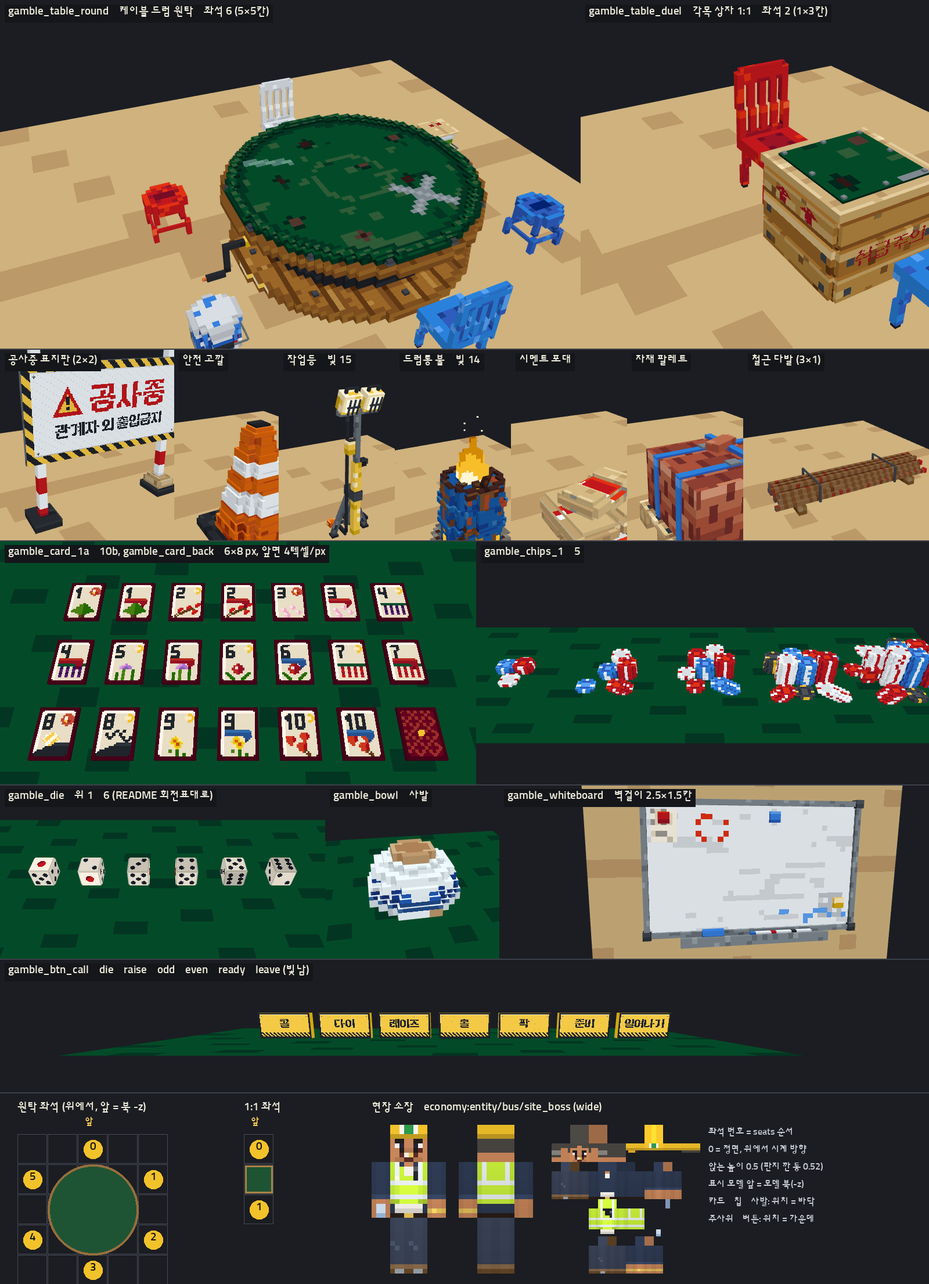
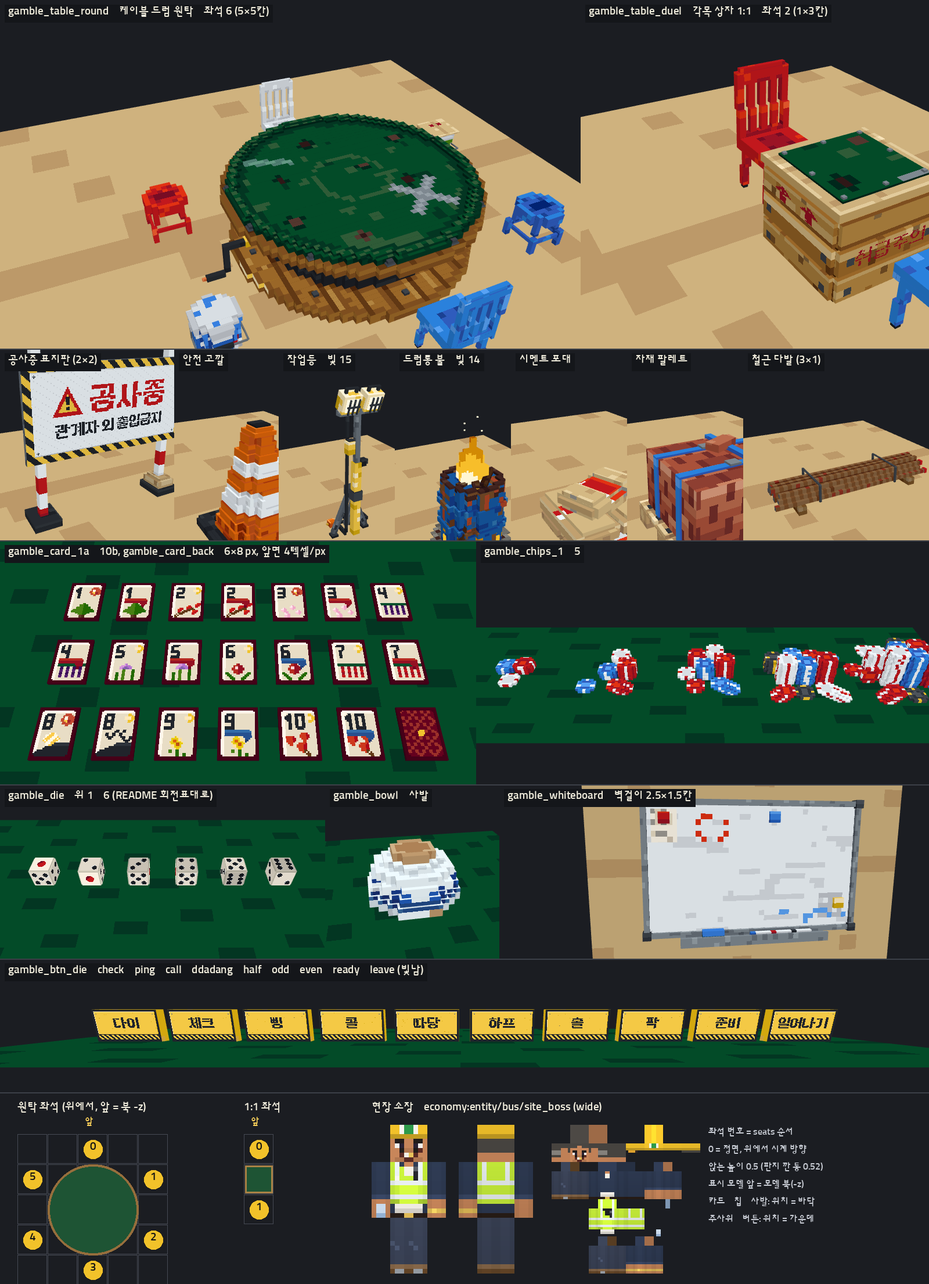
작업 중간 저장 (아직 jar 아님)
Claude-Session: https://claude.ai/code/session_01RZiBpXr9dauHCJtPMWBQ4s

Changed region(s): [[0.0, 0.7493, 1.0, 0.843]]

diff --git a/economy/src/test/java/dev/stsv/economy/ContentTest.java b/economy/src/test/java/dev/stsv/economy/ContentTest.java
@@ -275,8 +275,8 @@ class ContentTest {
         // 연마 진주 and its 북어포 among them), 21 old 손질대 goods (예전 물건: the shop buys them, nothing makes them), 6 job machines + the press, the
         // 통발 and the 가두리, 3 crates of catch (원양 조업: fish.yml net), 32 crop items (15 seeds, 17 harvests), 98 fish
         assertEquals(6, jobs.jobs().size());
-        assertEquals(6 + 8 + 149 + 12 + 7 + 21 + 7 + 2 + 3 + 32 + 98 + 4 + 1 + 12 + 1 + 18 + 21 + 45 + 23, ours.size(),
-                "6 finds + 8 specials + 149 goods + 12 4세대 goods + 7 4세대 materials + 21 old goods + 7 machines + 2 fishing gear + 3 crates of catch + 32 crop items + 98 fish (6 떼물고기) + 4 장신구 (the one base item, box, fragment, 용궁 상자) + 1 골드 스킨북 상자 + 12 버스 분실물 (10 kinds, a spoiled lunchbox, a keepsake ball) + 1 버스 선물 (배) + 18 숨은 비밀 물건 (13 + 족보, 빛바랜 사진, 페인트 조각, 삐삐, 삐삐의 편지) + 21 화투방 (섯다 패 20장 + 뒷면) + 45 도박장 (items/gamble.yml: 탁자 2, 소품 7, 패 21, 칩 5, 주사위, 사발, 버튼 7, 화이트보드) + 23 버스 손님이 든 물건 (items/bus.yml bus_hold_*: 닭과 날개 편 닭, 21가지)");
+        assertEquals(6 + 8 + 149 + 12 + 7 + 21 + 7 + 2 + 3 + 32 + 98 + 4 + 1 + 12 + 1 + 18 + 21 + 48 + 23, ours.size(),
+                "6 finds + 8 specials + 149 goods + 12 4세대 goods + 7 4세대 materials + 21 old goods + 7 machines + 2 fishing gear + 3 crates of catch + 32 crop items + 98 fish (6 떼물고기) + 4 장신구 (the one base item, box, fragment, 용궁 상자) + 1 골드 스킨북 상자 + 12 버스 분실물 (10 kinds, a spoiled lunchbox, a keepsake ball) + 1 버스 선물 (배) + 18 숨은 비밀 물건 (13 + 족보, 빛바랜 사진, 페인트 조각, 삐삐, 삐삐의 편지) + 21 화투방 (섯다 패 20장 + 뒷면) + 48 도박장 (items/gamble.yml: 탁자 2, 소품 7, 패 21, 칩 5, 주사위, 사발, 버튼 10, 화이트보드) + 23 버스 손님이 든 물건 (items/bus.yml bus_hold_*: 닭과 날개 편 닭, 21가지)");
         assertEquals(7, machines.size());
         assertEquals(149 + 12 + 7, machines.values().stream().flatMap(x -> x.recipes().stream()).map(MachineSpec.Recipe::output).distinct().count());
         YamlConfiguration legacy = yaml("shop.yml");

diff --git a/economy/src/test/java/dev/stsv/economy/PackTest.java b/economy/src/test/java/dev/stsv/economy/PackTest.java
@@ -37,10 +37,10 @@ class PackTest {
         try (var s = Files.list(PACK.resolve("models"))) {
             models = s.filter(p -> p.toString().endsWith(".bbmodel")).sorted().toList();
         }
-        assertEquals(7 * 5 + 3 * 5 + 77 + 9 + 1 + 1 + 5 + 2 + 2 + 13 + 45 + 23, models.size(),
+        assertEquals(7 * 5 + 3 * 5 + 77 + 9 + 1 + 1 + 5 + 2 + 2 + 13 + 48 + 23, models.size(),
                 "7 machines in 5 tiers (4세대: 4강), 3 spinning parts in 5 tiers, 77 growth stages of 17 crops, 9 하역장 props (6 container colours), the 국도 sign, "
                         + "its guide sign and its 5 arrows, the 통발 and the 가두리, the 숨은 비밀 기념비 stone unsolved and solved, and solved with each secret's own emblem (13), "
-                        + "and the 도박장's 45 (2 tables, 7 props, 21 cards, 5 chip piles, the die, the bowl, 7 buttons, the whiteboard), and the 23 things bus passengers hold (models/bus_hold.py: the hen and her flapping self, 21 more)");
+                        + "and the 도박장's 48 (2 tables, 7 props, 21 cards, 5 chip piles, the die, the bowl, 10 buttons, the whiteboard), and the 23 things bus passengers hold (models/bus_hold.py: the hen and her flapping self, 21 more)");
         for (Path p : models) {
             String name = p.getFileName().toString().replace(".bbmodel", "");
             BBModelConverter.Result r = BBModelConverter.convert(p, "economy:item/" + name);

diff --git a/economy/src/test/java/dev/stsv/economy/GambleAssetsTest.java b/economy/src/test/java/dev/stsv/economy/GambleAssetsTest.java
@@ -34,7 +34,7 @@ class GambleAssetsTest {
                 "gamble_bowl", "gamble_whiteboard"));
         for (int m = 1; m <= 10; m++) for (String s : List.of("a", "b")) ids.add("gamble_card_" + m + s);
         for (int n = 1; n <= 5; n++) ids.add("gamble_chips_" + n);
-        for (String b : List.of("call", "die", "raise", "odd", "even", "ready", "leave")) ids.add("gamble_btn_" + b);
+        for (String b : List.of("die", "check", "ping", "call", "ddadang", "half", "odd", "even", "ready", "leave")) ids.add("gamble_btn_" + b);
         for (String p : List.of("cement", "rebar", "cone", "worklight", "drumfire", "sign", "pallet")) ids.add("gamble_prop_" + p);
         return ids;
     }
@@ -47,7 +47,7 @@ class GambleAssetsTest {
     void everyContractIdIsAnItemWithItsModel() {
         YamlConfiguration y = items();
         List<String> ids = contractIds();
-        assertEquals(45, ids.size());
+        assertEquals(48, ids.size());
         assertEquals(ids.size(), y.getKeys(false).size(), "items/gamble.yml holds the contract's ids and nothing else");
         for (String id : ids) {
             ConfigurationSection sec = y.getConfigurationSection(id);

diff --git a/economy/README.md b/economy/README.md
@@ -883,10 +883,10 @@ STSV 공통 플러그인 위에서 도는 첫 번째 콘텐츠: 시즌 없이 **
 1. `/화투방` → 도박장 문 안쪽으로 순간이동 (도박장이 아직 없으면 안내만). 칩은 **현장 소장**(환전 창구 NPC) 우클릭 또는 `/화투방 칩`:
    내 칩 · 칩 10 / 100 / 1,000개 사기 · 10 / 100개 / 전부 바꾸기 · 규칙 · 족보 · 쉬어 가기 · **내 전적**(최근 8판) · 도박장으로.
 2. 테이블마다 위에 **팻말**: 종목 · 방 · 판돈 · 앉은 사람/자리 · 지금 상태 (빈 의자에 앉으면 시작 / n초 뒤 시작 / 진행 중 / 결과).
-3. **빈 의자 우클릭 = 그 테이블 판에 앉음** (가장 가까운 빈 의자). 칩이 모자라거나(판돈 · 섯다는 판돈 5배) 쉬어 가기 · 계정 나이에
+3. **빈 의자 우클릭 = 그 테이블 판에 앉음** (가장 가까운 빈 의자). 칩이 모자라거나(판돈 · 섯다는 판돈 3배) 쉬어 가기 · 계정 나이에
    걸리면 앉지 못하고 이유가 뜸. 다른 테이블에 앉아 있으면 못 앉음. **웅크리기(일어나기) = 판에서 나감**, 판 도중이면 다이.
-4. 두 사람 이상 앉으면 시작. 앉아 있는 동안 **화면 오른쪽 아래 판 보드**(코어 HUD): 누구 차례 · 남은 시간, 판, 내가 건 칩, 레이즈 n/2,
-   내 칩(판에 안 건 칩), 쉬는 중이면 그 안내. 앉은 사람에게만.
+4. 두 사람 이상 앉으면 시작. 앉아 있는 동안 **화면 오른쪽 아래 판 보드**(코어 HUD): 누구 차례 · 남은 시간, 판, 내가 건 칩,
+   섯다는 마지막 베팅("○○ 하프! +120칩", "올인!") · 콜 하려면 n칩 · 내가 올인이면 그 안내, 내 칩(판에 안 건 칩), 쉬는 중이면 그 안내. 앉은 사람에게만.
 5. **섯다**: 패 두 장이 가운데에서 자리 앞으로 미끄러져 와 눕혀짐. **내 패는 나에게만 앞면**, 다른 사람(구경꾼 · 나중에 들어온 사람 ·
    다시 접속한 사람 포함)에게는 뒷면. 다이하면 패가 엎인 채 가운데 쪽으로 밀림. 패를 열 때(모두 맞췄을 때) 다이 안 한 사람 패가 하나씩
    **뒤집힘**(들렸다가 옆으로 서고, 앞면으로 내려앉음). 모두 다이해서 끝난 판은 열지 않음. 구사 재경기는 새로 돌림.
@@ -896,10 +896,13 @@ STSV 공통 플러그인 위에서 도는 첫 번째 콘텐츠: 시즌 없이 **
 7. 칩: 판이 커질수록 가운데 **칩 더미**가 커짐 (판돈의 몇 배인지로 5단계 + 단계 안에서 조금씩), 위에 "판 n칩". 끝나면 더미가
    **이긴 사람 앞으로 미끄러지고** "+n칩" 이 떠오름. 판이 `hall.big-pot`(1,000칩) 이상이면 **큰 판**: 테이블 위 불꽃 · 효과음, 건물 안
    (`hall.radius` 40칸) 사람들에게 알림, **화이트보드 "오늘의 큰 판"**에 기록 (큰 순서로 5줄, 05시에 새로, 재시작해도 남음).
-8. **내 차례**: 자리 앞 테이블 위에 **버튼**이 서서 뜸 (나에게만 보이고 나만 누를 수 있음, 우클릭 · 좌클릭): 섯다 = 다이 · 콜(+n, 낼 것이
-   없으면 "그대로") · 레이즈(+n, 남았을 때만), 홀짝 = 홀 · 짝. 위에 이름과 금액. 차례인 자리 앞에는 **차례 시간**(이름 · n초 · 막대,
+8. **내 차례**: 자리 앞 테이블 위에 **버튼**이 한 줄로 서서 뜸 (나에게만 보이고 나만 누를 수 있음, 우클릭 · 좌클릭): 섯다 = 그때 할 수
+   있는 것만 — 아무도 안 걸었으면 **다이 · 체크 · 삥 · 하프**, 누가 걸었으면 **다이 · 콜 · 따당 · 하프** (칩이 모자라 더 못 올리면 다이 · 콜),
+   홀짝 = 홀 · 짝. 위에 이름, 아래에 넣을 칩(+n, 가진 칩을 다 넣게 되면 **올인 +n**). 둥근 테이블은 넷이 제 크기, 1:1 상자는 조금 작게
+   (한 자리 앞 최대 7개, `TableArt.pad`). 누가 걸면 채팅 · 팻말 · 판 보드에 "○○ 하프! +120칩" (올인이면 "올인!"), 그 자리 위로 글씨가
+   떠오르고 소리 (체크 똑똑 · 삥 · 콜 칩 소리 · 따당 종 두 번 · 하프 칩 + 딸랑 · 다이 털썩 · 올인은 크게 + 반짝). 차례인 자리 앞에는 **차례 시간**(이름 · n초 · 막대,
    5초부터 빨강)이 모두에게 보임. 차례가 오면 띵 소리 · 화면 알림. 판에 안 껴 있을 때(기다림 · 결과 · 다이 뒤)는 **일어나기** 버튼.
-9. **차례를 놓치면** (시간이 지나 판이 대신 둠: 섯다는 낼 것이 있으면 다이 아니면 콜, 홀짝은 아무거나) 다음 판부터 **쉬는 중**:
+9. **차례를 놓치면** (시간이 지나 판이 대신 둠: 섯다는 낼 것이 있으면 다이 아니면 체크, 홀짝은 아무거나) 다음 판부터 **쉬는 중**:
    의자에 그대로 앉아 있지만 판에 끼지 않음. 자리 앞 **준비** 버튼을 누르면 다음 판부터 다시 낌 (예전 "창을 닫으면 빠짐"의 대신).
 10. 담배연기 조금 (사람이 앉은 테이블 위).
 
@@ -910,12 +913,15 @@ STSV 공통 플러그인 위에서 도는 첫 번째 콘텐츠: 시즌 없이 **
   산 골드는 칩이 들고 있는 돈(주식처럼 ESCROW)이고, 바꿀 때 95 G 가 돌아오고 5 G 는 소각. 판에 건 칩은 판이 끝나야 바꿀 수 있음.
 - **방** (판돈 = 한 판에 처음 거는 칩): **초보방 10칩** (1,000 G) · **일반방 100칩** (10,000 G) · **큰손방 500칩** (50,000 G). 테이블마다 종목 · 방이
   정해져 있음 (건물 기본 배치: 섯다 초보방 · 섯다 일반방 · 섯다 큰손방 · 주사위 초보방 · 홀짝 초보방 · 홀짝 일반방).
-- **앉는 조건**: 칩이 **한 판이 가져갈 수 있는 만큼**만 있으면 됨 (홀짝 · 주사위 = 판돈, 섯다 = 판돈 + 레이즈 2번 × 판돈 × (첫 판 + 재경기 1번)
-  = **판돈의 5배**: 초보방 50 · 일반방 500 · 큰손방 2,500칩). 그래서 판 도중에 칩이 모자라는(음수가 되는) 일(올인 · 사이드 팟)은 없음.
-  판 시작 때 모자라면 일어서게 하고 이유를 알려 줌. **계정 나이 제한 없음** (`min-account-hours: 0`; 예: 24 = 처음 들어온 지 24시간 지난 계정부터).
+- **앉는 조건**: 홀짝 · 주사위 = **판돈** (한 판이 판돈보다 더 가져가지 않음), 섯다 = **판돈 × 3** (`games.sutda.sit-antes`: 초보방 30 ·
+  일반방 300 · 큰손방 1,500칩). 섯다는 올리는 횟수에 제한이 없지만 **가진 칩보다 더 걸 수는 없음**: 모자라면 가진 만큼만 넣고 **올인**,
+  그 사람은 자기가 맞춘 만큼의 판(메인 판 · 사이드 판)만 겨룸. 판이 시작될 때 가진 칩 전부가 그 판의 밑천(판 도중에는 환전 못 함)이라
+  **칩은 절대 음수가 안 됨** — 그래서 판돈 1배로도 안전하지만, 판돈 · 삥 · 따당 한 번은 받을 수 있게 3배로 둠 (판돈 하나로 앉아 곧장 올인만
+  하는 판을 줄임). 판 시작 때 모자라면 일어서게 하고 이유를 알려 줌. **계정 나이 제한 없음** (`min-account-hours: 0`; 예: 24 = 처음 들어온 지 24시간 지난 계정부터).
 - **쉬어 가기**: 지금은 **끔** (`daily-loss-cap: 0`). 켜면(예: 3000) 하루에 잃은 칩(잃은 것 - 딴 것)이 그만큼이 되면 그날(05시까지)은 못 앉음
   (환전은 됨), 그 판은 끝까지 하고 일어남. 셋 다 0 = 제한 없음이고 코드는 그대로라 숫자만 바꾸면 다시 켜짐.
 - **자릿세**: 모든 판(모두 다이한 판 포함)의 **5%, 올림** (판 20칩 → 1칩, 판 21칩 → 2칩). 나눠 가질 때 나눠 떨어지지 않는 칩도 사라짐.
+  사이드 판이 있으면 판마다 따로 5% 올림.
   자릿세 칩이 들고 있던 골드(칩당 100 G)는 소각.
 - **판 진행**: 두 사람 이상 앉으면 **10초** 뒤 시작. 결과를 **6초** 보여 주고 바로 다음 판. 먼저 하는 자리는 판마다 한 칸씩 돎. 내 차례 **20초**.
   판 도중에 일어나거나 나가면 **다이** (건 칩은 판에 남음, 혼자 남은 사람이 판을 가져감). 칩은 판이 끝날 때 한 번에 움직임
@@ -923,13 +929,31 @@ STSV 공통 플러그인 위에서 도는 첫 번째 콘텐츠: 시즌 없이 **
 - **홀짝** (1:1): 둘 다 판돈을 걸고, 먼저 하는 사람이 홀 · 짝을 부르고 **3초** 뒤 주사위 하나. 맞히면 부른 사람, 틀리면 상대가 판을 가져감.
 - **주사위** (2~6명): 모두 판돈을 걸고 **3초** 뒤 각자 주사위 2개. 합이 가장 큰 사람, 같으면 나눠 가짐.
 - **섯다** (2~6명): 화투 20장 (1~10월 두 장씩: 1 · 3 · 8월 광, 2 · 4 · 5 · 6 · 7 · 9 · 10월 열끗 + 띠, 8월은 광 + 열끗 기러기),
-  두 장씩 받고 **한 바퀴 베팅**: 다이 · 콜(맞추기, 낼 것이 없으면 그대로) · 레이즈(**판돈만큼**, 한 판에 **2번까지**). 모두 맞추면 패를 엶.
+  두 장씩 받고 베팅 (`Betting`), 먼저 하는 사람부터 차례로:
+
+  | 베팅 | 언제 | 넣는 칩 |
+  |---|---|---|
+  | **삥** | 아무도 안 걸었을 때 (여는 최소) | 판돈만큼 |
+  | **체크** | 아무도 안 걸었을 때만 (첫 바퀴) | 0 — 그대로 넘김. 모두 체크하면 바로 패를 엶 |
+  | **콜** | 누가 걸었을 때 | 맞출 만큼 |
+  | **따당** | 누가 걸었을 때 | 걸린 돈의 **두 배**가 되게 |
+  | **하프** | 언제나 | 콜할 만큼 + **(콜한 뒤의 판)의 절반** (판돈보다 적으면 판돈) |
+  | **다이** | 언제나 | 0 — 접음 (건 칩은 판에 남음) |
+
+  삥 · 따당 · 하프는 **몇 번이고** 할 수 있음 (올리는 횟수 제한 없음). 누가 올리면 다른 사람은 다시 콜 · 따당 · 하프 · 다이를 정함.
+  **모두 맞추거나 올인이면** (혹은 한 사람만 남으면) 그 바퀴가 끝나고 패를 엶 — 올릴 때마다 건 돈이 커지고 칩은 끝이 있으니 반드시 끝남.
+  따당 · 하프는 콜보다 더 넣을 칩이 있고, 받아 줄 사람(올인 아닌 사람)이 있을 때만.
+  - **올인**: 넣을 칩이 모자라면 가진 칩을 다 넣고 그 판은 더 베팅하지 않음. 정산은 **메인 판 + 사이드 판** (`Pots`): 아무도 맞추지 못한 칩은
+    건 사람에게 돌아가고, 넣은 칩의 높이마다 판을 나눠 그 높이까지 넣은 사람(다이 안 한)끼리만 겨룸. 예: A 50 올인, B 120 올인, C · D 200
+    → 메인 200 (넷), 사이드 1 210 (B · C · D), 사이드 2 160 (C · D). 판마다 그 사람들 가운데 가장 높은 패(땡잡이 · 암행어사도 그 판 안에서),
+    같으면 나눠 가짐. 다이한 사람이 남은 사람보다 더 넣은 칩은 마지막 판에 들어감.
   - 족보: **38광땡 > 18광땡 > 13광땡 > 장땡(10땡) > 9땡 … 1땡 > 알리(1·2) > 독사(1·4) > 구삥(1·9) > 장삥(1·10) > 장사(4·10) > 세륙(4·6)
     > 갑오(9끗) > 8끗 … 1끗 > 망통(0끗)** (끗 = 두 달 합의 끝자리). 같은 패는 나눠 가짐.
   - **땡잡이** (3광 + 7열끗): 판에서 가장 높은 패가 1땡~9땡이면 이김 (장땡 · 광땡은 못 잡음), 아니면 망통.
   - **암행어사** (4열끗 + 7열끗): 판에서 가장 높은 패가 18광땡 · 13광땡이면 이김 (38광땡은 못 잡음), 아니면 1끗.
   - **구사** (4 · 9): 다른 사람의 가장 높은 패가 알리 이하면 **재경기**, **멍텅구리 구사** (4열끗 + 9열끗): 9땡 이하면 재경기. 아니면 3끗.
-    재경기는 다이하지 않은 사람끼리 같은 판(칩)으로 새로 받고 다시 한 바퀴 (새 판돈 없음), **한 판에 1번까지** (그다음은 3끗).
+    재경기는 다이하지 않은 사람끼리 같은 판(칩)으로 새로 받고 다시 한 바퀴 (새 판돈 없음, 체크부터 다시, 올인한 사람은 그대로 올인),
+    **한 판에 1번까지** (그다음은 3끗).
   - 셋 이상일 때는 구사 → 암행어사 → 땡잡이 → 가장 높은 패 순서로 봄.
 - **기록**: 모든 판을 `eco_hwatu_hand` 에 남김 (때, 게임, 방, 참가자, 판, 소각, 사람마다 넣은 칩 → 받은 칩과 패). **딴 칩 순위는 두지 않음**.
   주간 순위 · 순자산 업적은 도박장에서 딴 칩 · 잃은 칩을 세지 않음 (다른 사람과 주고받은 돈처럼 뺌). 순자산에는 가진 칩 × 100 G 가 들어감.
@@ -945,8 +969,9 @@ STSV 공통 플러그인 위에서 도는 첫 번째 콘텐츠: 시즌 없이 **
 - `위치` · `창구` · `칠판` = 지금 선 자리를 `/화투방` 위치 / 현장 소장 자리 / 화이트보드 글씨 자리로 (건물 없이 따로 꾸밀 때).
 - `시험 [인원 2~6]` = **보고 있는(없으면 12칸 안 가장 가까운) 테이블**에 내가 앉고 나머지 의자에 **봇**(봇1, 봇2 … 의자에 앉은 마네킹,
   `hall.bots: false` 면 빈 의자 위 이름표)이 앉음 (기본: 홀짝 2명 · 그 밖 3명). 사람이 앉아 있는 테이블에서는 못 함, 시험 중에는 다른 사람이
-  못 앉음. 봇은 1초 ~ 4초 생각하고 둠 (`HwatuBot`: 섯다 광땡 레이즈 · 땡은 대개 레이즈 · 알리~세륙 가끔 레이즈 · 땡잡이 · 암행어사 · 구사는
-  끝까지 콜 · 약한 패는 레이즈를 받으면 대개 다이 · 공짜 콜은 다이하지 않음, 홀짝 반반). **시험 칩**만 움직임 (`test-chips` 100,000칩씩,
+  못 앉음. 봇은 1초 ~ 4초 생각하고 둠 (`HwatuBot`, 할 수 있는 베팅만: 섯다 광땡은 하프 · 따당 (가끔 삥으로 숨김) · 땡은 대개 삥 · 따당 ·
+  알리~세륙은 가끔 삥 · 땡잡이 · 암행어사 · 구사는 끝까지 콜 · 체크 · 약한 패는 건 판이면 대개 다이 (판보다 큰 돈이면 더 자주) · 공짜 체크는
+  다이하지 않음; 이미 올린 횟수만큼 올리고 싶은 마음이 반씩 줄어 봇끼리의 올리기 싸움도 끝남, 홀짝 반반). **시험 칩**만 움직임 (`test-chips` 100,000칩씩,
   모자라면 판 시작 때 다시 채움): 골드 · 진짜 칩 · 판 기록 · 순위 · 화이트보드 · 도장 · 미션 · 업적 어디에도 안 남음. `시험 끝` · 일어나기 ·
   접속 끊기로 끝.
   - **패 정해 받기**: `시험 섯다 패 <카드1> <카드2> [봇1 카드1 봇1 카드2]` → 다음 판(첫 패, 재경기 말고)에 그 패를 받음 (시험 판이 없으면
@@ -959,7 +984,7 @@ STSV 공통 플러그인 위에서 도는 첫 번째 콘텐츠: 시즌 없이 **
 
 - `HwatuModule` (칩 · 정산 · 명령 · 건물 연결 · 현장 소장 · 화이트보드 · 이벤트), `HallTable` (묶인 테이블 하나: 그 `Table`, 의자 번호 ↔ 사람,
   쉬는 중, 시험 판과 봇), `TableScene` (테이블 위 표시 전부: 팻말 · 패 · 칩 더미 · 주사위 · 사발 · 차례 시간 · 버튼, 애니메이션은 보간되는
-  변환을 틱마다), 순수 계산(단위 테스트): `TableKind` (두 테이블, 종목에 쓰는 의자), `Controls` (상태마다 버튼), `TableArt` (칩 더미 단계 ·
+  변환을 틱마다), 순수 계산(단위 테스트): `TableKind` (두 테이블, 종목에 쓰는 의자), `Controls` (상태마다 버튼: 할 수 있는 베팅마다 하나), `Betting` (섯다 베팅 한 바퀴), `Pots` (메인 · 사이드 판), `TableArt` (칩 더미 단계 ·
   주사위 눈 회전 · 누가 앞면을 보나 · 테이블 위 자리 · 모델 약속), `BigPots` (오늘의 큰 판), `HallSpec` (`hwatu.yml` `hall:`).
 - 의자: 코어 가구의 좌석 (좌석 번호 = 아이템 seats 순서: 0번이 정면, 시계 방향). 코어 `FurnitureModule` 의 `seats(가구)` · `seated(엔티티)` ·
   `seatTaken` · `sit(엔티티, 가구, 번호)` (플레이어 · 마네킹 모두).
@@ -974,7 +999,7 @@ STSV 공통 플러그인 위에서 도는 첫 번째 콘텐츠: 시즌 없이 **
   바로 보임(패 · 버튼은 자리를 향함), 패 · 칩 더미 · 사발은 바닥이 위치에, 주사위 · 버튼은 가운데가 위치에. 주사위 면 방향:
   1 위 · 6 아래 · 2 북 · 5 남 · 3 서 · 4 동 (`TableArt.DIE_FACES`, 한 곳만 고치면 됨). 크기: `TableScene` 의 `*_SCALE`, 테이블 윗면 높이:
   `hall.top` (둥근 0.84 · 1:1 0.77 블록).
-- 에셋 (`items/gamble.yml` 45개, 모델 `tools/assetgen/models/gamble.py` · 그림 `gamble_art.py`, `python3 tools/assetgen/gamble_assets.py` 가
+- 에셋 (`items/gamble.yml` 48개, 버튼 10: 다이 · 체크 · 삥 · 콜 · 따당 · 하프 · 홀 · 짝 · 준비 · 일어나기 (레이즈는 없앰), 모델 `tools/assetgen/models/gamble.py` · 그림 `gamble_art.py`, `python3 tools/assetgen/gamble_assets.py` 가
   모델 · 현장 소장 스킨 · 미리보기 `docs/previews/gamble_hall_assets.png` 만 씀): 둥근 테이블 = 5×5칸(가운데가 기준 칸, 드럼 3×3 + 자리 6칸
   `(0,-2) (2,-1) (2,1) (0,2) (-2,1) (-2,-1)`, 2배로 줄여 굽고 `scale: 2`), 펠트 윗면 **0.84** 블록(13.5 px); 1:1 = 1×3칸(z -1 · 0 · 1), 펠트 윗면
   **0.77** 블록(12.25 px); 앉는 높이 0.5 (판지 깐 통 0.52). 패 6×8 px · 두께 0.5 px (x 5..11, z 4..12, 월 숫자가 북쪽 사람에게 왼쪽 위),
@@ -986,7 +1011,10 @@ STSV 공통 플러그인 위에서 도는 첫 번째 콘텐츠: 시즌 없이 **
 - 테스트: `HallTest` (의자 고르기 · 종목에 쓰는 의자, 상태마다 버튼 · 실제 판의 버튼, 앞면은 주인만 · 열 때 · 다이한 패 · 모두 다이한 판,
   칩 더미 단계, 주사위가 굴린 눈으로 · 반대 면, 모델 방향, 테이블 위 자리 (둥근 · 1:1), 오늘의 큰 판, 테이블 묶음 저장, `hall:` 설정, 코드가
   쓰는 문구가 모두 있음), `SutdaTest` (족보 전부, 190가지 패의 모든 짝), `HwatuTest` (환전 · 한도 · 쉬어 가기 · 계정 나이 · 자릿세 · 나누기,
-  베팅 한 바퀴, 홀짝 · 주사위 · 섯다 한 판씩 · 재경기 · 도중에 나가기, 칩 저장, 문구), `HwatuBotTest`, 코어 `FurnitureSeatTest`.
+  홀짝 · 주사위 · 섯다 한 판씩 · 사이드 판 (올인 셋 · 같은 패 나누기 · 올인한 사람 앞에서 나가기) · 긴 따당 싸움 · 재경기 · 도중에 나가기, 칩 저장,
+  문구), `BettingTest` (상태마다 할 수 있는 베팅, 체크는 첫 바퀴만, 삥 · 따당 · 하프 금액, 제한 없는 올리기 싸움이 올인으로 끝남, 모두 올인,
+  모자란 칩 올인, 받아 줄 사람이 없으면 못 올림, 무작위 4,000바퀴가 모두 끝남 · 음수 없음, 돌려줄 칩, 사이드 판, 판마다 자릿세),
+  `HwatuBotTest` (봇은 할 수 있는 베팅만, 판 300개를 끝까지), 코어 `FurnitureSeatTest`.
 
 ## 콘텐츠 수치 (plugins/STSV/contents/economy/, `/관리자 리로드` 로 적용)
 
@@ -1001,7 +1029,7 @@ STSV 공통 플러그인 위에서 도는 첫 번째 콘텐츠: 시즌 없이 **
 | `land.yml` | 1인당 무료 청크, 청크 값(기본·증가분), 청크당 재산세(100G), 누진 기준 두 단계(10 + 구성원 1명당 5청크 넘으면 2배, 25 + 구성원 1명당 10청크 넘으면 3배), 미납 유예, 금고 부족 알림, 초대 시간 |
 | `requests.yml` | 주민의 부탁: 단계 · 후보(tier) · 사연 · 친밀도 선물 · 명인 의뢰 · 이어지는 주간 의뢰, 주간 공동 의뢰(목록을 차례로 돌아가며) |
 | `missions.yml` | 일일·주간 미션: 한 번에 몇 개, 다시 뽑기 횟수, 보너스, 직업 미션 단계(bands), 미션 목록(세는 기록, 목표, 직업, 묶음, 보상 · 도장, 뽑힐 비율, min-level) |
-| `hwatu.yml` | 화투방: 칩 값(살 때 100 · 바꿀 때 95 G), 하루 살 수 있는 칩 · 하루 잃는 한도 · 계정 나이 (셋 다 0 = 제한 없음), 자릿세 %, 시험 판 칩, 시간(차례 · 시작 · 굴리기 · 결과), 방 셋의 판돈, 게임별 인원 · 주사위 수 · 레이즈 · 재경기 |
+| `hwatu.yml` | 화투방: 칩 값(살 때 100 · 바꿀 때 95 G), 하루 살 수 있는 칩 · 하루 잃는 한도 · 계정 나이 (셋 다 0 = 제한 없음), 자릿세 %, 시험 판 칩, 시간(차례 · 시작 · 굴리기 · 결과), 방 셋의 판돈, 게임별 인원 · 주사위 수 · 섯다 앉는 칩(판돈 배수 `sit-antes`) · 재경기 |
 | `stamps.yml` | 도장: 공동 의뢰 · 낚시대회 · 행사의 도장과 하루 상한, 도장 가게, 이달의 도장판(칸 선물, 달마다 칭호) |
 | `stocks.yml` | 주식 규칙(10분 간격, 상하한가, 보유 한도, 수수료, 매도 대기, 뉴스 빈도, 활동 반영, 배당 몫, 알림), 산업 6개, 회사 42개(위험도, 시작가, 민감도) |
 | `news.yml` | 주식 뉴스 문구: 머리말, 산업별 호재·악재 원인 12개씩, 변동 크기별 결과 |

diff --git a/docs/plans/도박장_기획.md b/docs/plans/도박장_기획.md
@@ -24,7 +24,7 @@
 - `economy:gamble_chips_1` … `gamble_chips_5` — 칩 더미 (높이 · 개수 5단계, 빨강/파랑/흰 칩 섞임).
 - `economy:gamble_die` — 주사위 (면마다 눈, 1번 면이 위 · 기본 회전에서 각 면 방향 표를 README 에 적기).
 - `economy:gamble_bowl` — 홀짝 사발 (엎어 놓은 상태가 기본).
-- `economy:gamble_btn_<call|die|raise|odd|even|ready|leave>` — 내 차례에 자리 앞에 뜨는 버튼 (공사장 느낌: 노란 안전 표지판 · 스텐실 글씨).
+- `economy:gamble_btn_<die|check|ping|call|ddadang|half|odd|even|ready|leave>` — 내 차례에 자리 앞에 뜨는 버튼 (공사장 느낌: 노란 안전 표지판 · 스텐실 글씨). 다이 · 체크 · 삥 · 콜 · 따당 · 하프 · 홀 · 짝 · 준비 · 일어나기 (2026-11-25 섯다 베팅 개편으로 레이즈는 없앰).
 - `economy:gamble_whiteboard` — 화이트보드 (글씨는 TextDisplay 로 따로 얹음).
 - 건물 소품 (ItemDisplay 또는 가구): `economy:gamble_prop_cement` (시멘트 포대 더미), `gamble_prop_rebar` (철근 다발), `gamble_prop_cone` (안전 고깔), `gamble_prop_worklight` (삼각대 작업등), `gamble_prop_drumfire` (드럼통 모닥불), `gamble_prop_sign` ("공사중 · 관계자 외 출입금지" 표지판), `gamble_prop_pallet` (자재 팔레트).
 - 현장 소장 스킨: 버스 손님 스킨과 같은 방식 (`economy:entity/bus/site_boss` 같은 키) — 노란 안전모, 형광 조끼, 배 나온 아저씨.
@@ -39,3 +39,27 @@
 - 구경: 누구나 볼 수 있음. 큰 판에서 이기면 건물 안에 효과 · 화이트보드에 기록.
 - `/화투방` = 도박장으로 이동 (없으면 안내) · 칩 · 전적 창은 남김. 기존 로비 · 테이블 창은 없앰.
 - 혼자 시험: `/관리자 도박장 시험` — 실제 테이블에서 봇과 (가짜 칩, 기록 안 남음). 섯다 패 정하기도 그대로.
+
+## 4. 섯다 베팅 개편 (2026-11-25, 주인 승인)
+
+다이 · 콜 · 레이즈(판돈만큼, 두 번까지)였던 섯다를 실제 섯다 베팅으로:
+
+| 베팅 | 언제 | 넣는 칩 |
+|---|---|---|
+| 삥 | 아무도 안 걸었을 때 | 판돈 (여는 최소) |
+| 체크 | 아무도 안 걸었을 때만 (첫 바퀴) | 0 |
+| 콜 | 누가 걸었을 때 | 맞출 만큼 |
+| 따당 | 누가 걸었을 때 | 걸린 돈의 두 배가 되게 |
+| 하프 | 언제나 | 콜 + (콜한 뒤 판)의 절반, 판돈 이상 |
+| 다이 | 언제나 | 0 |
+
+- **올리는 횟수 제한 없음** (주인: 제한 개념 자체를 없앰, 설정도 두지 않음). 판을 묶는 건 **올인 · 사이드 판**: 가진 칩보다 더 걸 수 없고,
+  모자라면 가진 만큼 넣고 올인. 한 바퀴는 **모두 맞추거나 올인이면** 끝남 (올릴 때마다 건 돈이 커지고 칩은 끝이 있으니 반드시 끝남).
+  따당 · 하프는 콜보다 더 넣을 칩이 있고 받아 줄(올인 아닌) 사람이 있을 때만.
+- 정산 (`Pots`): 아무도 맞추지 못한 칩은 돌려주고, 넣은 높이마다 메인 판 · 사이드 판, 판마다 그 높이까지 넣은 다이 안 한 사람끼리 겨룸
+  (땡잡이 · 암행어사도 그 판 안에서), 같으면 나눔, 판마다 자릿세 5% 올림. 구사 재경기는 그대로 (같은 판, 올인한 사람은 그대로 올인).
+- 앉는 칩: 판이 시작될 때 가진 칩 전부가 밑천이고 그 이상은 걸 수 없으니 칩은 음수가 안 됨 → 판돈만큼이면 안전하지만
+  `games.sutda.sit-antes: 3` (판돈 · 삥 · 따당 한 번 받기). 홀짝 · 주사위는 판돈. 판 도중에는 밑천 전부가 묶여 환전 못 함.
+- 버튼: 할 수 있는 베팅마다 하나 (아무도 안 걸었으면 다이 체크 삥 하프, 걸었으면 다이 콜 따당 하프), 이름 아래 넣을 칩 (+n / 올인 +n).
+  한 자리 앞 최대 7개 한 줄 (`TableArt.pad`: 둥근 테이블은 넷까지 제 크기, 좁으면 작게). 베팅마다 채팅 · 팻말 · 판 보드 · 자리 위 글씨
+  "○○ 하프! +120칩" / "올인!" + 소리. 봇(`HwatuBot`)도 패 세기대로 새 베팅을 씀.
